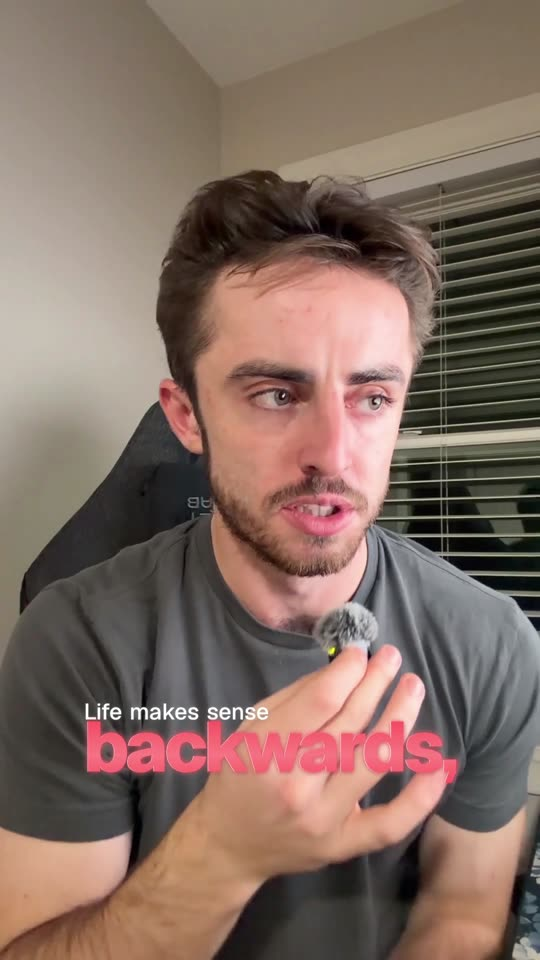
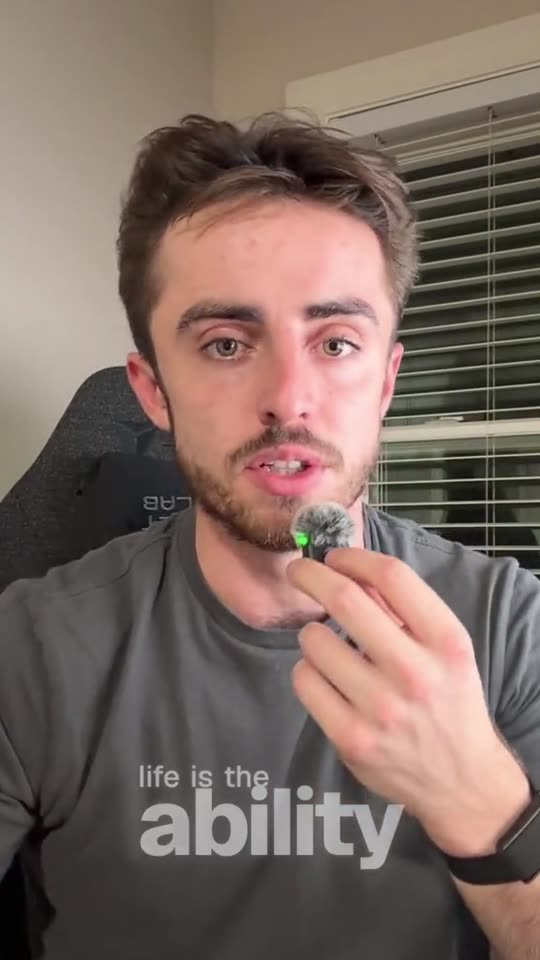
Branded video covers (style B)
Each video gets a calm, face-centred frame shown in black and white,
with a dark fade over the lower half that also hides the burned-in
captions. Topic and title sit on the cover in the site type with the
key word in blue. Duration and play button move to the top corners.
Cards no longer repeat the title underneath, and the player no longer
uses the cropped cover as its poster.

Claude-Session: https://claude.ai/code/session_015BHEwS3Pfrys84VShdo9hU

diff --git a/site.css b/site.css
@@ -156,23 +156,26 @@ html.js-motion .top { position: fixed; transition: transform var(--dur-base) var
 .vthumb { position: relative; width: 100%; aspect-ratio: 9 / 16; border: 0; padding: 0; border-radius: 10px; overflow: hidden; cursor: pointer; background: radial-gradient(circle at 60% 12%, #5a6170 0%, #2a2e37 48%, #14161b 90%); color: var(--light); font-family: var(--font); }
 .vcard:nth-child(3n+2) .vthumb { background: radial-gradient(circle at 30% 18%, #46507a 0%, #252a44 48%, #121420 90%); }
 .vcard:nth-child(3n) .vthumb { background: radial-gradient(circle at 50% 10%, #6b6f78 0%, #33363d 50%, #15171b 90%); }
-.vthumb img { position: absolute; inset: 0; width: 100%; height: 100%; object-fit: cover; transition: transform var(--dur-base) var(--ease-out); }
+.vthumb { container-type: inline-size; }
+.vthumb img { position: absolute; inset: 0; width: 100%; height: 100%; object-fit: cover; filter: grayscale(1) contrast(1.1) brightness(1.08); transition: transform var(--dur-base) var(--ease-out); }
 .vthumb .cap { position: absolute; left: 14px; right: 14px; top: 14%; text-align: center; font-weight: 800; font-size: clamp(18px, 2vw, 24px); line-height: 1.06; letter-spacing: -.03em; text-shadow: 0 2px 12px rgba(0,0,0,.55); text-wrap: balance; }
 .vthumb .cap em { font-style: normal; color: #8196ff; }
-.vthumb .play { position: absolute; left: 12px; bottom: 12px; width: 44px; height: 44px; border-radius: 50%; background: var(--accent); display: flex; align-items: center; justify-content: center; opacity: .85; transition: opacity var(--dur-base) var(--ease-out); }
-.vthumb::after { content: ""; position: absolute; inset: 0; background: linear-gradient(to top, rgba(8,8,10,.72), rgba(8,8,10,0) 44%); opacity: .7; pointer-events: none; transition: opacity var(--dur-base) var(--ease-out); }
-/* Hover: the picture eases in a touch inside its frame; the card itself stays put. */
+/* Branded cover: black and white, a dark fade over the lower half (it also hides
+   the captions burned into the video), the topic and title set in the site type. */
+.vthumb::after { content: ""; position: absolute; inset: 0; pointer-events: none; background: linear-gradient(to top, #111318 0%, rgba(17,19,24,.96) 36%, rgba(17,19,24,0) 62%), linear-gradient(to bottom, rgba(17,19,24,.4) 0%, rgba(17,19,24,0) 18%); }
+.vthumb .vcap { position: absolute; left: 7.5cqi; right: 7.5cqi; bottom: 8cqi; z-index: 1; text-align: left; }
+.vthumb .vcap small { display: block; margin-bottom: 3.5cqi; font-size: max(10px, 4.6cqi); font-weight: 800; letter-spacing: .14em; text-transform: uppercase; color: var(--soft); }
+.vthumb .vcap b { display: block; font-size: 11.6cqi; font-weight: 900; line-height: 1.02; letter-spacing: -.02em; text-transform: uppercase; text-wrap: balance; }
+.vthumb .vcap.long b { font-size: 9.6cqi; }
+.vthumb .vcap em { font-style: normal; color: #6f88ff; }
+.vthumb .play { position: absolute; right: 5.5cqi; top: 5.5cqi; z-index: 1; width: max(34px, 15cqi); height: max(34px, 15cqi); border-radius: 50%; background: var(--accent); display: flex; align-items: center; justify-content: center; opacity: .9; transition: opacity var(--dur-base) var(--ease-out), transform var(--dur-base) var(--ease-out); }
+.vthumb .dur { position: absolute; left: 5.5cqi; top: 5.5cqi; z-index: 1; padding: 3px 7px; border-radius: 4px; background: rgba(17, 19, 24, .72); color: var(--light); font-size: 12px; font-weight: 700; font-variant-numeric: tabular-nums; letter-spacing: .02em; }
 @media (hover: hover) {
   .vthumb:hover img { transform: scale(1.03); }
-  .vthumb:hover::after, .vthumb:hover .play { opacity: 1; }
+  .vthumb:hover .play { opacity: 1; transform: scale(1.06); }
 }
 .vthumb:focus-visible img { transform: scale(1.03); }
-.vthumb:focus-visible::after, .vthumb:focus-visible .play { opacity: 1; }
-.vthumb .play, .vthumb .cap { z-index: 1; }
-.vthumb .dur { position: absolute; right: 10px; bottom: 12px; z-index: 1; padding: 3px 8px; border-radius: 4px; background: rgba(17, 19, 24, .72); font-size: 12px; font-weight: 700; font-variant-numeric: tabular-nums; letter-spacing: .02em; }
-.vthumb .vcap { position: absolute; left: 18px; right: 70px; bottom: 16px; z-index: 1; text-align: left; font-size: 19px; font-weight: 800; line-height: 1.15; letter-spacing: -.01em; text-shadow: 0 2px 12px rgba(0, 0, 0, .5); }
-.vthumb .vcap small { display: block; margin-bottom: 5px; font-size: 11px; font-weight: 700; letter-spacing: .12em; text-transform: uppercase; color: var(--soft); }
-.feature .vthumb .dur { right: 16px; bottom: 16px; }
+.vthumb:focus-visible .play { opacity: 1; }
 .vmeta { display: flex; flex-direction: column; gap: 2px; padding: 0 2px; }
 .vmeta b { font-weight: 700; font-size: 16px; line-height: 1.25; }
 .vmeta span { font-size: 12px; font-weight: 700; letter-spacing: .12em; text-transform: uppercase; color: var(--muted); }
@@ -186,7 +189,6 @@ html.js-motion .top { position: fixed; transition: transform var(--dur-base) var
 html.js-motion #featured { flex: 0 1 320px; aspect-ratio: 9 / 16; }
 .feature .vthumb { flex: 0 1 320px; border-radius: 14px; box-shadow: 0 0 0 4px var(--accent), 0 30px 80px rgba(0,0,0,.55); }
 .feature .vthumb .cap { font-size: 32px; }
-.feature .vthumb .play { left: 50%; top: 50%; bottom: auto; width: 76px; height: 76px; margin: -38px 0 0 -38px; }
 .feature-text { flex: 1 1 440px; min-width: 0; display: flex; flex-direction: column; gap: 20px; }
 .feature-text h1 { margin: 0; font-size: clamp(44px, 6.4vw, 84px); line-height: .98; letter-spacing: -.04em; font-weight: 900; }
 .feature-text h1 span { color: #6f88ff; }

diff --git a/site.js b/site.js
@@ -49,12 +49,13 @@
     var inner = v.cover
       ? '<img src="' + esc(v.cover) + '" alt="" ' + (featured ? 'fetchpriority="high"' : 'loading="lazy"') + ' decoding="async" />'
       : '<span class="cap">' + capHtml(v) + "</span>";
-    /* The featured card names its video on the picture; grid cards have the title underneath. */
-    if (featured && v.cover) inner += '<span class="vcap"><small>' + esc(v.topic) + "</small>" + esc(v.title) + "</span>";
+    /* Branded cover: topic and title sit on the picture, with the key word in blue. */
+    if (v.cover) inner += '<span class="vcap' + (v.title.length > 26 ? " long" : "") + '" aria-hidden="true"><small>' + esc(v.topic) + "</small><b>" + capHtml(v) + "</b></span>";
     if (v.dur) inner += '<span class="dur" aria-hidden="true">' + fmtDur(v.dur) + "</span>";
     return '<button type="button" class="vthumb" data-play="' + v.i + '" aria-label="Play video: ' + esc(v.title) + (v.dur ? ", " + fmtDur(v.dur) : "") + '">' + inner + PLAY + "</button>";
   }
   function card(v, meta) {
+    meta = meta && !v.cover; /* covers carry their own title */
     return '<div class="vcard">' + thumb(v) + (meta ? '<div class="vmeta"><b>' + esc(v.title) + "</b><span>" + esc(v.topic) + "</span></div>" : "") + "</div>";
   }
 
@@ -168,7 +169,7 @@
     cur = i;
     lbTitle.textContent = v.title; lbTopic.textContent = v.topic;
     if (!v.src) stage.innerHTML = '<p class="soon">This one is uploading. Check back soon.</p>';
-    else if (isFile(v.src)) stage.innerHTML = '<video src="' + esc(v.src) + '"' + (v.cover ? ' poster="' + esc(v.cover) + '"' : "") + ' controls autoplay playsinline preload="metadata"></video>';
+    else if (isFile(v.src)) stage.innerHTML = '<video src="' + esc(v.src) + '"' + ' controls autoplay playsinline preload="metadata"></video>';
     else stage.innerHTML = '<iframe src="' + esc(v.src) + '" title="' + esc(v.title) + '" allow="autoplay; fullscreen; picture-in-picture" allowfullscreen></iframe>';
     track("video-play-" + v.title.toLowerCase().replace(/[^a-z0-9]+/g, "-"));
   }

diff --git a/videos.html b/videos.html
@@ -11,7 +11,7 @@
   <link rel="preconnect" href="https://fonts.googleapis.com" />
   <link rel="preconnect" href="https://fonts.gstatic.com" crossorigin />
   <link rel="stylesheet" href="https://fonts.googleapis.com/css2?family=Geist:wght@400;500;600;700;800;900&display=swap" />
-  <link rel="stylesheet" href="site.css?v=43" />
+  <link rel="stylesheet" href="site.css?v=44" />
   <!-- Motion: mark the page as script-enabled before first paint. If site.js never loads, undo it so nothing stays hidden. -->
   <script>(function(h){if(!("IntersectionObserver" in window))return;h.classList.add("js-motion");setTimeout(function(){if(!window.__motion)h.classList.remove("js-motion")},3000)})(document.documentElement)</script>
   <link rel="icon" href="favicon.svg" type="image/svg+xml" />
@@ -32,8 +32,8 @@
   <meta name="twitter:description" content="One minute, one honest thought. Short videos from Blake Cody on letting go, discipline and the stuff nobody posts about." />
   <meta name="twitter:image" content="https://blakecody.com/og-image.jpg?v=2" />
 
-  <script src="videos-data.js?v=45" defer></script>
-  <script src="site.js?v=43" defer></script>
+  <script src="videos-data.js?v=46" defer></script>
+  <script src="site.js?v=44" defer></script>
   <script data-goatcounter="https://bccody03.goatcounter.com/count" async src="https://gc.zgo.at/count.js"></script>
 </head>
 <body class="page-dark on-dark">

diff --git a/index.html b/index.html
@@ -11,7 +11,7 @@
   <link rel="preconnect" href="https://fonts.googleapis.com" />
   <link rel="preconnect" href="https://fonts.gstatic.com" crossorigin />
   <link rel="stylesheet" href="https://fonts.googleapis.com/css2?family=Geist:wght@400;500;600;700;800;900&display=swap" />
-  <link rel="stylesheet" href="site.css?v=43" />
+  <link rel="stylesheet" href="site.css?v=44" />
   <!-- Motion: mark the page as script-enabled before first paint. If site.js never loads, undo it so nothing stays hidden. -->
   <script>(function(h){if(!("IntersectionObserver" in window))return;h.classList.add("js-motion");setTimeout(function(){if(!window.__motion)h.classList.remove("js-motion")},3000)})(document.documentElement)</script>
   <link rel="icon" href="favicon.svg" type="image/svg+xml" />
@@ -92,8 +92,8 @@
     ]
   }
   </script>
-  <script src="videos-data.js?v=45" defer></script>
-  <script src="site.js?v=43" defer></script>
+  <script src="videos-data.js?v=46" defer></script>
+  <script src="site.js?v=44" defer></script>
   <script data-goatcounter="https://bccody03.goatcounter.com/count" async src="https://gc.zgo.at/count.js"></script>
 </head>
 <body>
